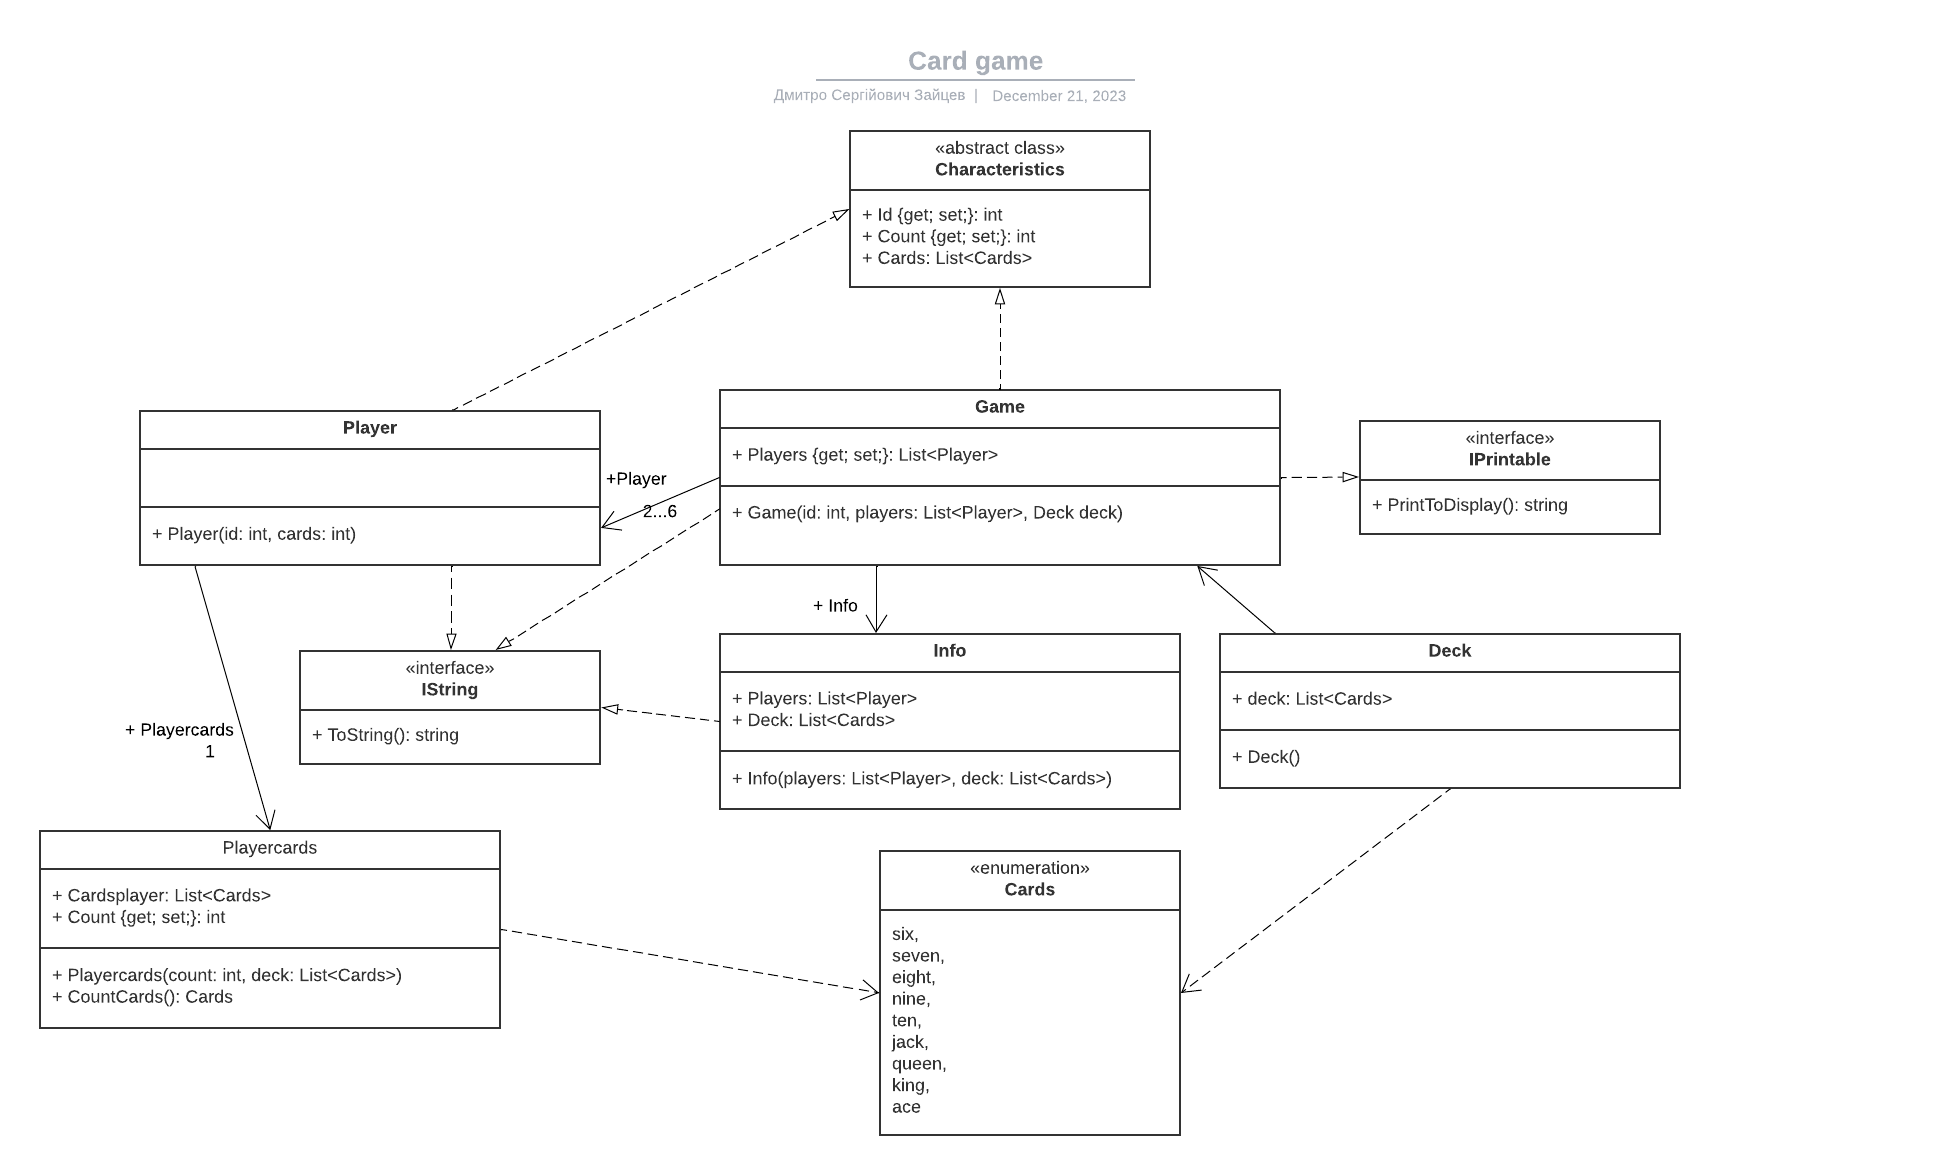
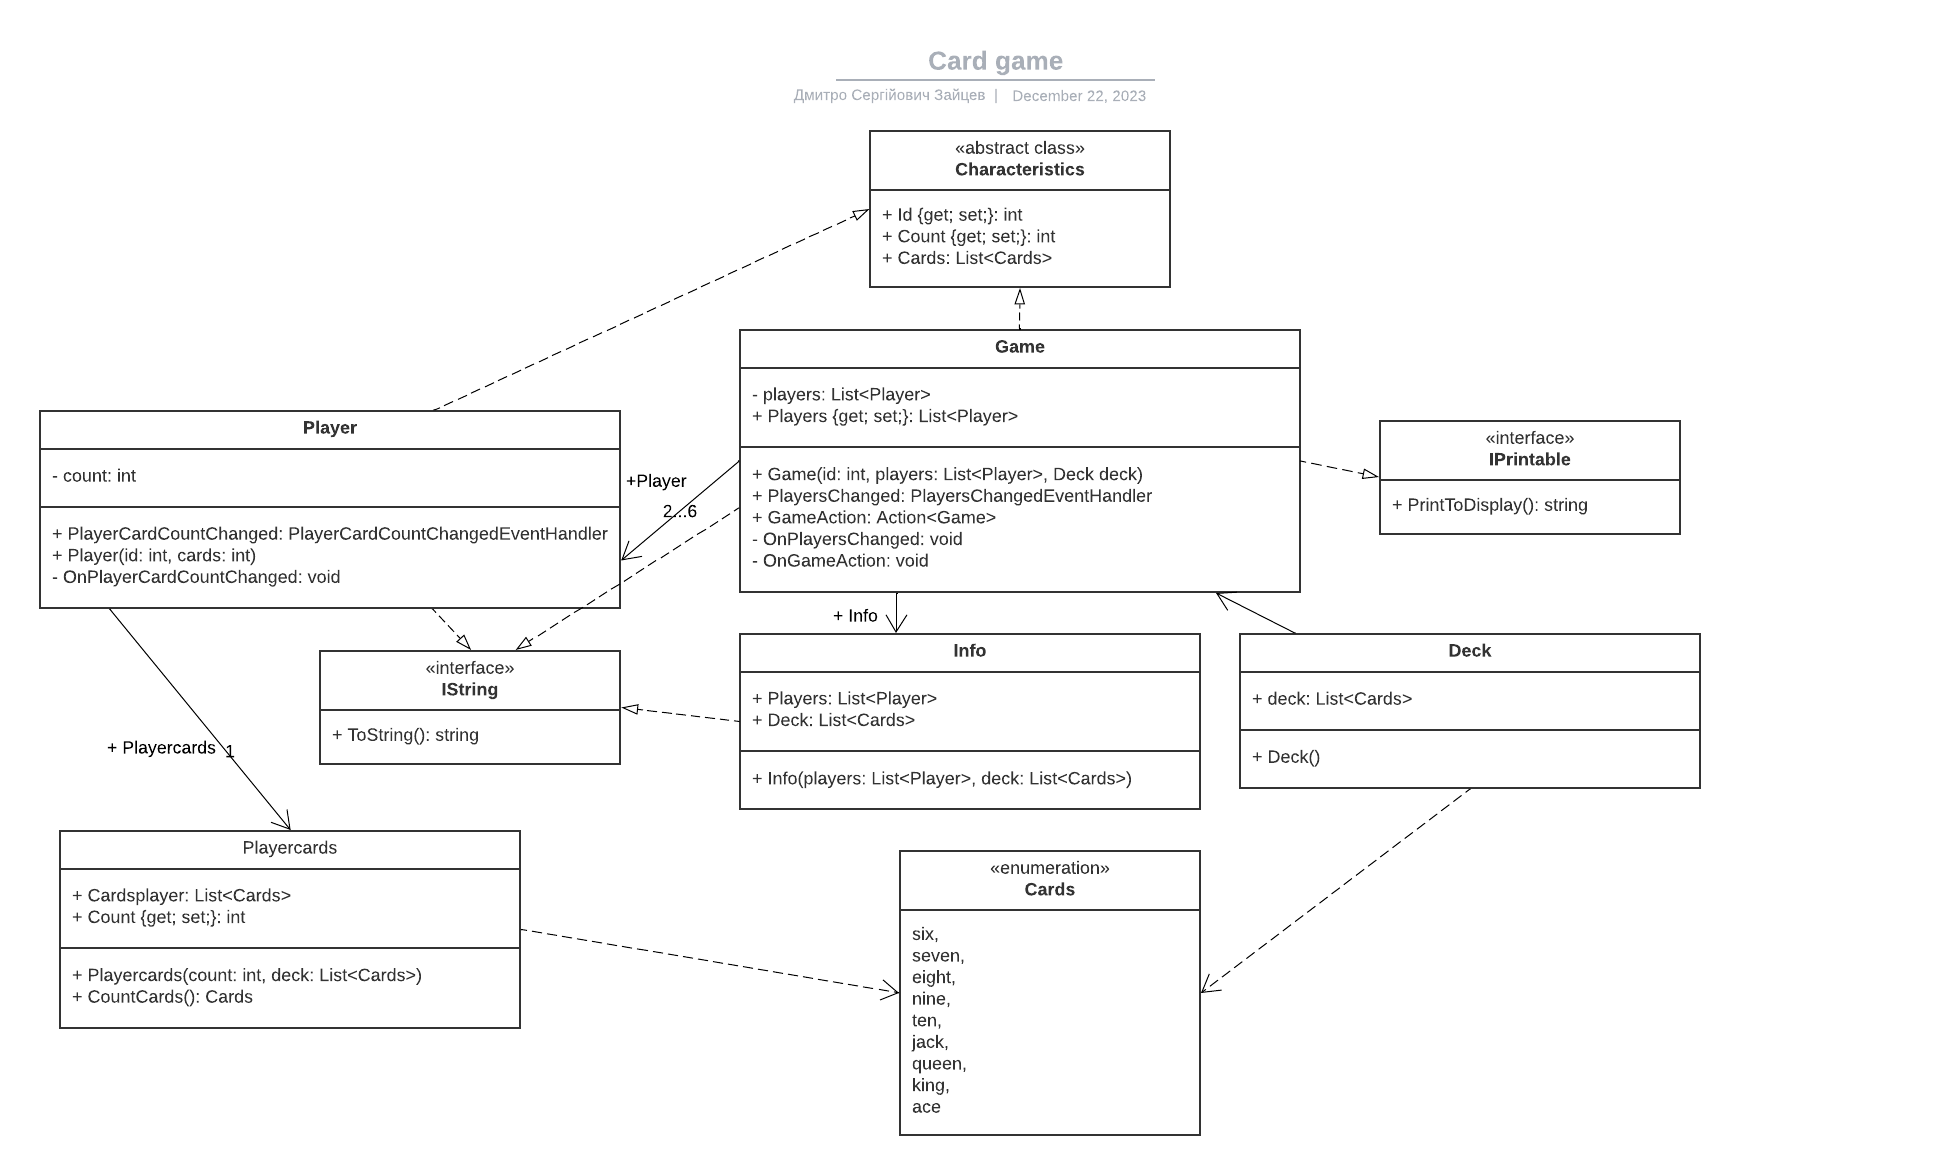
Project C

diff --git a/ProjectOOP/Program.cs b/ProjectOOP/Program.cs
@@ -13,7 +13,7 @@ namespace ProjectOOP
             {
                 try
                 {
-                    Console.WriteLine("1 - New Game\n2 - Remove save\n3 - Game saves\n4 - Check deck\n0 - Exit");
+                    Console.WriteLine("1 - New Game\n2 - Remove save\n3 - Game saves\n4 - Check deck\n5 - Deal the cards\n6 - Change player\n0 - Exit");
                     int choose = Convert.ToInt32(Console.ReadLine());
                     switch (choose)
                     {
@@ -76,6 +76,46 @@ namespace ProjectOOP
                                         Console.WriteLine(c);
                             }
                             break;
+                        case 5:
+                            if (!games.Any())
+                                throw new Exception("Empty check list!");
+                            else
+                            {
+                                Console.WriteLine("Choose a game:\n");
+                                foreach (Game g in games)
+                                {
+                                    Console.WriteLine(g.ToString() + "\n");
+                                }
+                                choose = Convert.ToInt32(Console.ReadLine());
+                                Game selectedGame = games[choose - 1];
+                                Console.WriteLine("Enter the player number to change cards:");
+                                int playerNumber = Convert.ToInt32(Console.ReadLine());
+                                selectedGame.Players[playerNumber - 1].PlayerCardCountChanged += Player_PlayerCardCountChanged;
+                                Console.WriteLine("Enter the new number of cards for the player:");
+                                int newCardCount = Convert.ToInt32(Console.ReadLine());
+                                int id = selectedGame.Players[playerNumber - 1].Id;
+                                selectedGame.Players[playerNumber - 1] = new Player(id, newCardCount, games[games.Count-1].list);
+                            }
+                            break;
+                        case 6:
+                            if (!games.Any())
+                                throw new Exception("Empty check list!");
+                            else
+                            {
+                                Console.WriteLine("Choose a game:\n");
+                                foreach (Game g in games)
+                                {
+                                    Console.WriteLine(g.ToString() + "\n");
+                                }
+                                choose = Convert.ToInt32(Console.ReadLine());
+                                Game selectedGame = games[choose - 1];
+                                selectedGame.PlayersChanged += Game_PlayersChanged;
+                                Console.WriteLine("Enter the number of cards for the new player:");
+                                int newPlayerCardCount = Convert.ToInt32(Console.ReadLine());
+                                Player newPlayer = new Player(selectedGame.Count + 1, newPlayerCardCount, selectedGame.list);
+                                Console.WriteLine($"New player added: {newPlayer}");
+                            }
+                            break;
                     }
                 }
                 catch (Exception ex)
@@ -83,6 +123,15 @@ namespace ProjectOOP
                     Console.WriteLine(ex.Message);
                 }
             }
+        }
+        private static void Player_PlayerCardCountChanged(object sender, EventArgs e)
+        {
+            Player player = (Player)sender;
+            Console.WriteLine($"Player {player.Id} card count changed to {player.Count}");
+        }
+        private static void Game_PlayersChanged(object sender, EventArgs e)
+        {
+            Console.WriteLine("Players Changed!");
         }
     }
 }

diff --git a/ProjectOOP/Logic/Game.cs b/ProjectOOP/Logic/Game.cs
@@ -8,29 +8,51 @@ using System.Threading.Tasks;
 
 namespace ProjectOOP.Logic
 {
+    public delegate void PlayersChangedEventHandler(object sender, EventArgs e);
     public class Game: Characteristics, IPrintable, IString, ICloneable
     {
+        private List<Player> players = new List<Player>();
         public int Id { get; set; } = 1;
-        public int Count {  get; set; }
-        public List<Player> player { get; set; }
+        public int Count { get { if (players.Any()) return players.Count; return 0; } }
+        public List<Player> Players
+        {
+            get { return players; }
+            set
+            {
+                if (value.Count > 1 && value.Count <= 6)
+                {
+                    players = value;
+                    OnPlayersChanged();
+                }
+            }
+        }
         public List<Cards> list { get; set; }
         public Game(int id, List<Player> players, Deck deck) 
         {
             if (id > 0)
                 Id = id;
-            if (players.Count > 1 && players.Count <= 6)
-                Count = players.Count;
-            player = players;
+            Players = players;
             list = deck.deck;
 
         }
+        public event PlayersChangedEventHandler PlayersChanged;
+        public event Action<Game> GameAction;
+        protected virtual void OnPlayersChanged()
+        {
+            PlayersChanged?.Invoke(this, EventArgs.Empty);
+            OnGameAction();
+        }
+        protected virtual void OnGameAction()
+        {
+            GameAction?.Invoke(this);
+        }
         public override string ToString()
         {
-            return $"{Id} Game, Players {player.Count}, Deck {list.Count}";
+            return $"{Id} Game, Players {Count}, Deck {list.Count}";
         }
         public string PrintToDisplay()
         {
-            Info info = new Info(player, list);
+            Info info = new Info(players, list);
             return info.ToString();
         }
         public object Clone()

diff --git a/ProjectOOP/Logic/Player.cs b/ProjectOOP/Logic/Player.cs
@@ -8,10 +8,23 @@ using ProjectOOP.Interfaces;
 
 namespace ProjectOOP.Logic
 {
+    public delegate void PlayerCardCountChangedEventHandler(object sender, EventArgs e);
     public class Player: Characteristics, IString
     {
+        private int count;
         public int Id { get; set; }
-        public int Count { get; set; }
+        public int Count 
+        {
+            get { return count; }
+            set
+            {
+                if (value > 0 && value < 36)
+                {
+                    count = value;
+                    OnPlayerCardCountChanged();
+                }
+            } 
+        }
         public List<Cards> list { get; set; }
         public Player(int id, int cards, List<Cards> deck) 
         {
@@ -23,6 +36,11 @@ namespace ProjectOOP.Logic
                 Playercards playercards = new Playercards(cards, deck);
                 list = playercards.Cardsplayer;
             }
+        }
+        public event PlayerCardCountChangedEventHandler PlayerCardCountChanged;
+        protected virtual void OnPlayerCardCountChanged()
+        {
+            PlayerCardCountChanged?.Invoke(this, EventArgs.Empty);
         }
         public override string ToString()
         {
